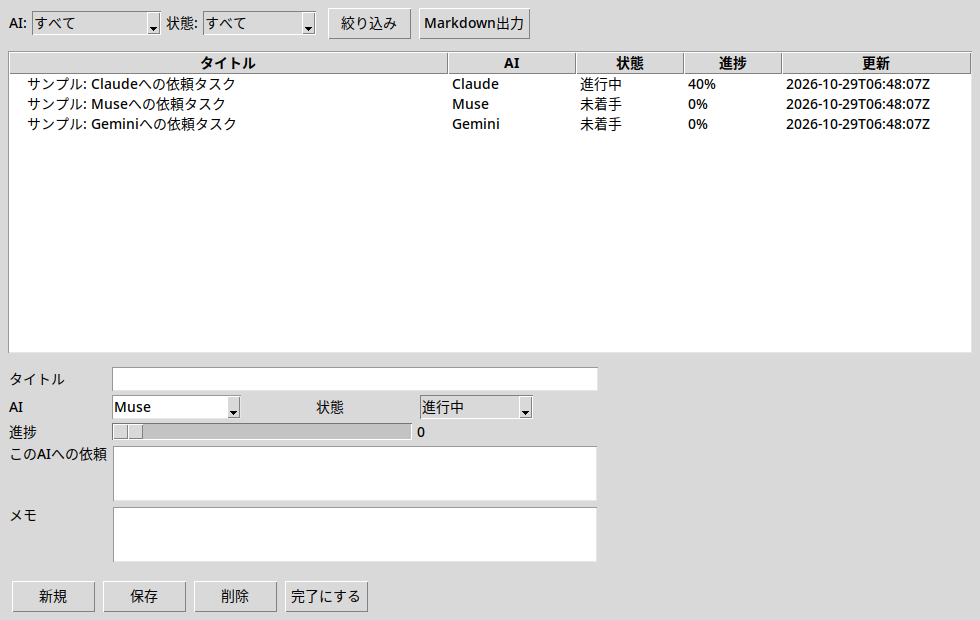
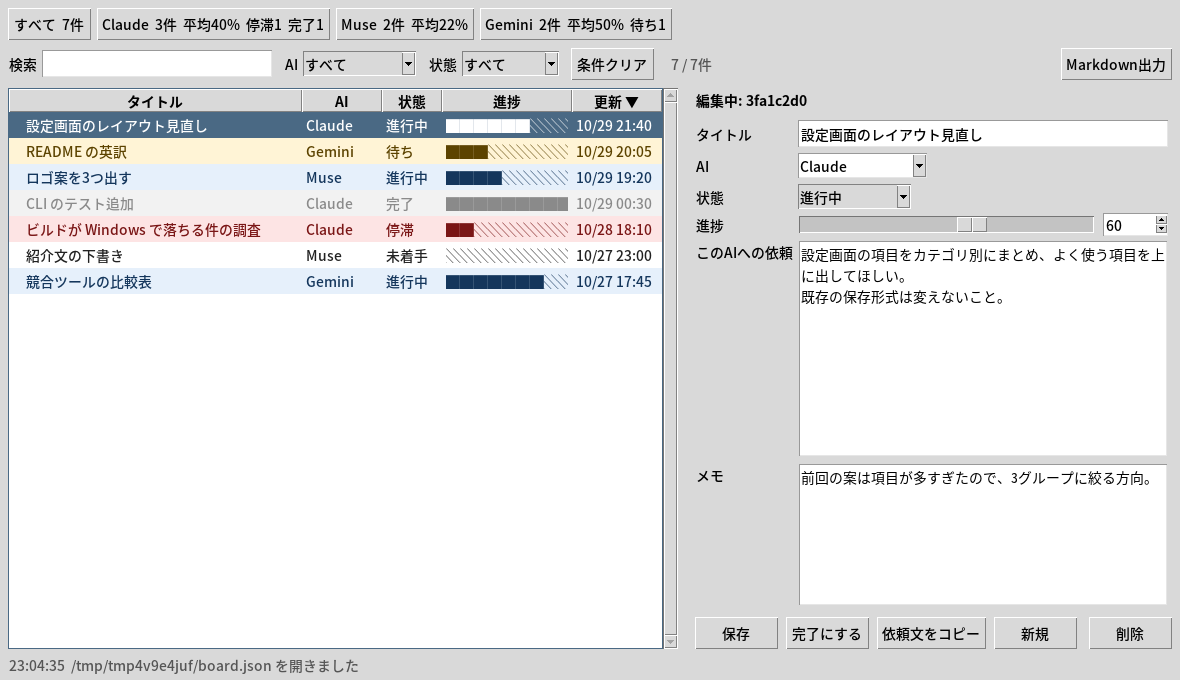
v0.2.1: 画面の撮り直しと、一覧の列・ボタンがはみ出す所の直し

diff --git a/ai_work_board.py b/ai_work_board.py
@@ -23,7 +23,7 @@ import tempfile
 import uuid
 from datetime import datetime, timezone
 
-VERSION = "0.2.0"
+VERSION = "0.2.1"
 DEFAULT_AIS = ["Claude", "Muse", "Gemini"]
 STATUSES = ["todo", "in_progress", "waiting", "blocked", "done"]
 STATUS_LABEL = {
@@ -366,8 +366,8 @@ STATUS_COLORS = {  # 一覧の行の背景・文字色
     "blocked": ("#fde4e4", "#7a1616"),
     "done": ("#f2f2f2", "#8a8a8a"),
 }
-COLUMNS = (("#0", "title", "タイトル", 360), ("ai", "ai", "AI", 90), ("status", "status", "状態", 70),
-           ("progress", "progress", "進捗", 150), ("updated", "updated", "更新", 100))
+COLUMNS = (("#0", "title", "タイトル", 280), ("ai", "ai", "AI", 80), ("status", "status", "状態", 60),
+           ("progress", "progress", "進捗", 130), ("updated", "updated", "更新", 90))
 
 
 def run_gui():
@@ -465,20 +465,20 @@ def run_gui():
               command=lambda v: progress_var.set(round(float(v)))).grid(row=4, column=1, sticky="we", padx=4, pady=3)
     ttk.Spinbox(form, textvariable=progress_var, from_=0, to=100, increment=5, width=5).grid(row=4, column=2, sticky="w", padx=4)
     ttk.Label(form, text="このAIへの依頼").grid(row=5, column=0, sticky="nw", pady=3)
-    req_text = tk.Text(form, height=7, width=40, wrap="word", undo=True)
+    req_text = tk.Text(form, height=7, width=30, wrap="word", undo=True)
     req_text.grid(row=5, column=1, columnspan=2, sticky="nsew", padx=4, pady=3)
     ttk.Label(form, text="メモ").grid(row=6, column=0, sticky="nw", pady=3)
-    notes_text = tk.Text(form, height=5, width=40, wrap="word", undo=True)
+    notes_text = tk.Text(form, height=5, width=30, wrap="word", undo=True)
     notes_text.grid(row=6, column=1, columnspan=2, sticky="nsew", padx=4, pady=3)
     form.rowconfigure(5, weight=2)
     form.rowconfigure(6, weight=1)
 
     btns = ttk.Frame(form)
     btns.grid(row=7, column=0, columnspan=3, sticky="we", pady=(8, 0))
-    ttk.Button(btns, text="保存 (Ctrl+S)", command=lambda: save_current()).pack(side="left", padx=(0, 4))
+    ttk.Button(btns, text="保存", command=lambda: save_current()).pack(side="left", padx=(0, 4))
     ttk.Button(btns, text="完了にする", command=lambda: mark_done()).pack(side="left", padx=4)
     ttk.Button(btns, text="依頼文をコピー", command=lambda: copy_prompt()).pack(side="left", padx=4)
-    ttk.Button(btns, text="新規 (Ctrl+N)", command=lambda: new_task()).pack(side="left", padx=4)
+    ttk.Button(btns, text="新規", command=lambda: new_task()).pack(side="left", padx=4)
     ttk.Button(btns, text="削除", command=lambda: delete_task()).pack(side="right")
 
     ttk.Label(root, textvariable=status_msg, style="Status.TLabel", padding=(8, 4)).pack(fill="x")

diff --git a/README.md b/README.md
@@ -8,7 +8,7 @@
 
 ![AI Work Boardの画面](docs/screenshot.png)
 
-上の画像は v0.1.0 の画面です。v0.2.0 からは、上にAIごとのまとめ、左に一覧、右に編集欄が並びます。
+上にAIごとのまとめ、左に一覧（状態で色分け・進捗バー）、右に選んだタスクの編集欄が並びます。
 
 ## ダウンロード
 
